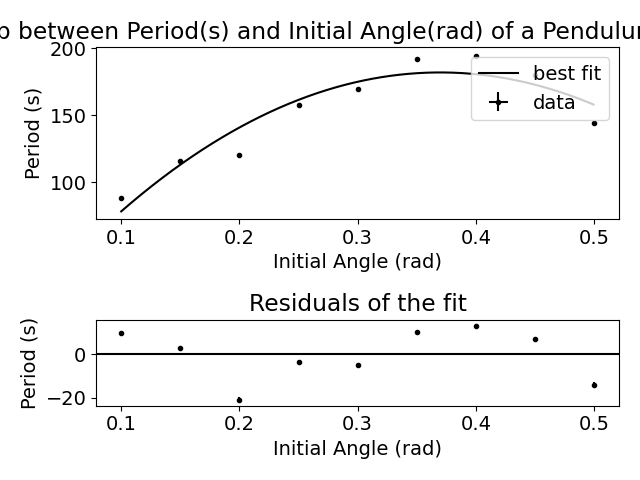
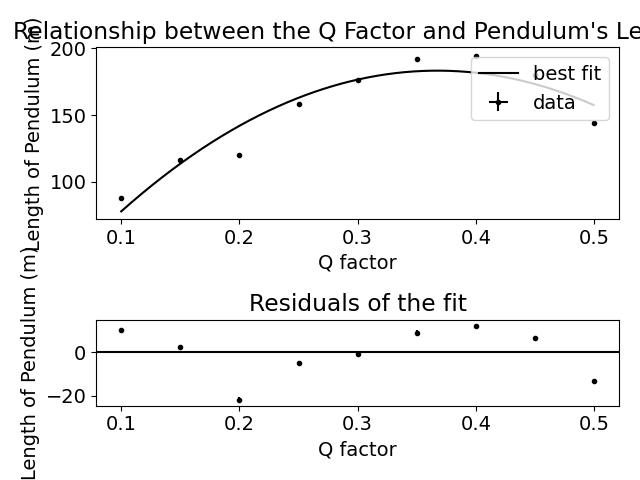
Whatever

diff --git a/Temp PHY180/fitting_LQ.py b/Temp PHY180/fitting_LQ.py
@@ -133,9 +133,9 @@ def main():
     # Prints a box using what's in the "label" strings in the previous two lines.
     # loc specifies the location
 
-    ax1.set_xlabel("Initial Angle (rad)")
-    ax1.set_ylabel("Period (s)")
-    ax1.set_title("Relationship between Period(s) and Initial Angle(rad) of a Pendulum of Length 40cm")
+    ax1.set_xlabel("Q factor")
+    ax1.set_ylabel("Length of Pendulum (m)")
+    ax1.set_title("Relationship between the Q Factor and Pendulum's Length'")
     # Here is where you change how your graph is labelled.
 
     #ax1.set_xscale('log')
@@ -160,8 +160,8 @@ def main():
     ax2.axhline(y=0, color="black")
     # Plot the y=0 line for context.
 
-    ax2.set_xlabel("Initial Angle (rad)")
-    ax2.set_ylabel("Period (s)")
+    ax2.set_xlabel("Q factor")
+    ax2.set_ylabel("Length of Pendulum (m)")
     ax2.set_title("Residuals of the fit")
     # Here is where you change how your graph is labelled.
 
